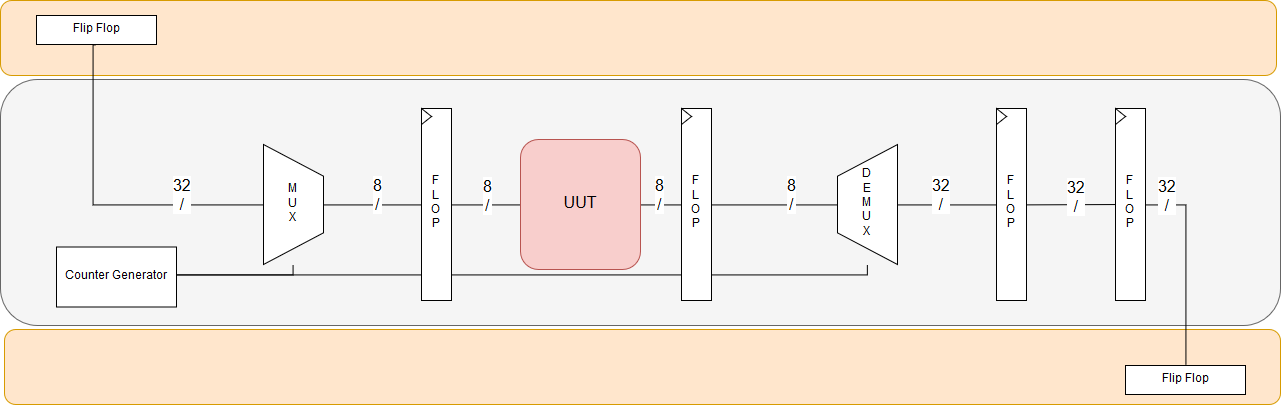
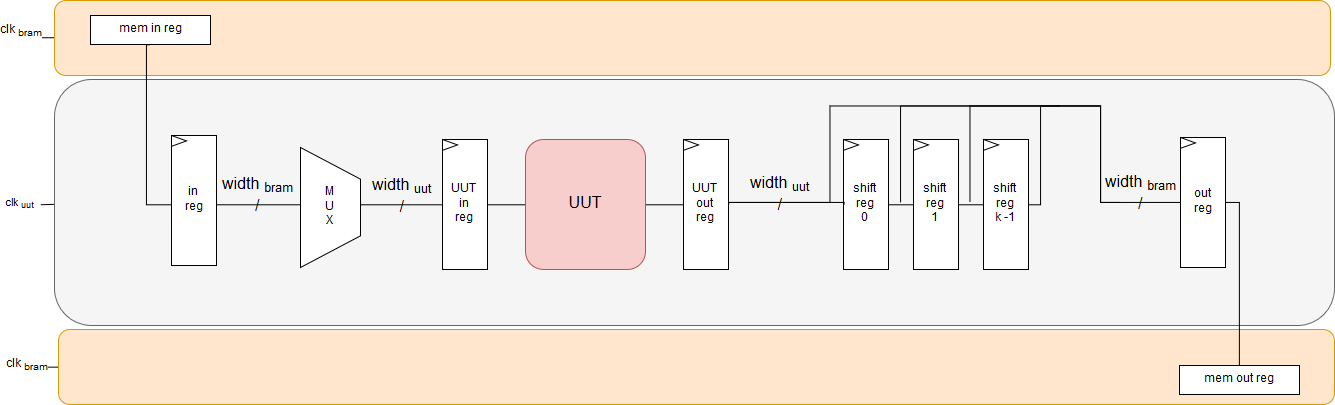
Changes from papeeria

diff --git a/5_test_bench.tex b/5_test_bench.tex
@@ -1,10 +1,7 @@
 \chapter{Test Bench}
-One of the development steps is the verification of the design. It is very important to determine whether the requirements of the systems specification are met. There are generally two approaches to validate systems functionality. The formal verification is a mathematical prove of the compatibility between the specification and systems function. The verification through simulation focuses on testing the design and  ...
+The main idea behind the test bench development was to make it configurable and adaptable. The test bench has been developed parallel to the system and therefore has been redesigned to suit the current needs. It became clear that it has to be able to conduct various tests on any design with adjustable frequencies and not be bound to any design or interface in particular. The general idea of testing a design has been shown in \autoref{fig:test}.
 
-\section{General Overview}
-The main idea behind the test bench development was to make it configurable and adaptable. The test bench has been developed parallel to the system and therefore has been redesigned to suit the current needs. It became clear that it has to be a test bench able to conduct various test on designs with various input ranges with various frequencies and not be bound to one design or interface. The general idea of testing a design has been shown in \autoref{fig:test}.
-
-The tester is responsible for test vector generation, feeding the vectors to the inputs of the Device Under Test (DUT), gathering the response and evaluating it. Both generation and evaluation tasks are very design dependent and have to be adjusted after the design is placed in the test bench. The easiest interface from the users perspective is a PC application acting as the GUI. Since the UUT is being developed on the RTL level with hardware description language and the test bench is supposed to test it for real working frequencies, at least as close as possible to real environment, implementation on an FPGA would allow such test. The feeding and gathering has to also be implemented in FPGA as physical test interface. The middleware, responsible for the communication and translation of signals, should support standard communication protocols for data exchange with PC and hardware interface to the FPGA. The rough design draft is shown in the figure \autoref{fig:draft}.\\
+The test bench is responsible for applying the test vectors to the inputs of the UUT and recording the responses. The generation of test patterns, systematic or random, and response evaluation must be repeated for every design tested, therefore this is the responsibility of the test designer. The easiest interface from the users perspective is a PC application acting as the GUI to the test bench. Physical access to the UUT is implemented with hardware description language and, together with the design, implemented into a FPGA. The middleware, responsible for the communication and translation of signals between GUI and physical interface, should support standard communication protocols for data exchange with PC and hardware interface to the FPGA. The rough design draft is shown in the figure \autoref{fig:draft}.\\
  
 
 \begin{figure}[H]
@@ -27,7 +24,7 @@ The Xilinx Zynq XC7Z020-1-CLG484 produced in 28nm technology is a SoC solution c
 \end{figure}
 
 \section{Physical Interface}
-The physical interface of the test bench has to supply UUT inputs with test vectors and record response of the outputs. This is the principle of the boundary test, where the tester has no access to the internal structure of the tested design. To achieve higher frequencies then the memory interface can withstand, the Test Engine fetches more data at once and shifts them in chunks through the design. The system architecture is shown in \autoref{fig:testbench}.
+The physical interface of the test bench has to supply UUT inputs with test vectors and record responses of the outputs. It is advisable to incorporate the DfT techniques to increase controllability and observability of the UUT. The system architecture is shown in \autoref{fig:testbench}.
 
 \begin{figure}[H]
 \centering
@@ -36,20 +33,10 @@ The physical interface of the test bench has to supply UUT inputs with test vect
 \label{fig:testbench}
 \end{figure}
 
-\subsection{AXI Interface}
-The history of the Advanced eXtensible Interface (AXI) goes back to year 2003 when it was first introduced as part of the ARM\textsuperscript{\textregistered} Advanced Microcontroller Bus Architecture (AMBA\textsuperscript{\textregistered}). The current version is called AXI4 and was released in 2010 as second version of AXI interface. The number four comes from the fourth version of AMBA, which contains AXI interface. The protocol is supported by many Intellectual Property (IP) producers (not only Xilinx) making the designer learn only one standard of communication. It was developed to standardize the communication between modules in the SoC designs. There are three types or modes of the AXI4:
-\begin{itemize}
-    \item AXI4 maps the memory of the interface and allows bursts up to 256 data transfers with just single address phase. Writing data to the memory, sends the data directly to the IP,
-    \item AXI4-Lite is a light-weight version which offers just memory mapping without the burst capability,
-    \item AXI4-Stream doesn't support any address phases. It allows unlimited burst of data. Lack of addresses make it no more considered a memory mapping interface.
-\end{itemize}
-The protocol works in the master slave system connecting both of them using an AXI Interconnect IP. It applies only to memory mapped versions, since the AXI4-Stream connects master and slave directly or with each other or DMA IP. The AXI Interconnect can service up to 16 masters and 16 slaves. Its main function is the data-width translation, downsizing too big master data packets into smaller slave-compliant bursts or upsizing it. It also does the clock-rate conversion, since both masters and slaves can operate on different clock frequencies. One of the big advantages of the interconnection is the mix support between protocol modes. Moreover the interconnection implements data pipelining for better frequency vs. latency trade-off. Finally it handles priorities in data transitions, making them either concurrent or using programmable priorities.
-AXI4 protocol is designed for bidirectional communication, having separate write address, read address, write data, read data and write response channels in memory mapped modes and just data transfer channel in Stream mode. Every Xilinx IP has AXI4 support and there is an easy way of creating custom IPs supporting this protocol~\cite{report:AXI}.
-
 \subsection{Test Engine}\label{ssec:engine}
 The main core of the Test Bench is the Test Engine which feeds the test vectors to the UUT and gathers the response vectors. It consists of two parts:
 \begin{itemize}
-    \item memory interface which calculates successive addresses for words in the memory bank and stores them in the input register for one $clk_{bram}$ cycle. The addresses get incremented by $inc = width_{bram}/8$ due to the bytewise addressing scheme. The memory interface also handles the write back of the response once per $clk_{bram}$ cycle from the output register. The number of pipeline stages for data read operation has to be taken into account. The number of pipeline stages determines the delay in clock cycles when the information, stored under the address given in the address register, actually gets to the input register of the test engine.
+    \item memory interface which calculates successive addresses for words in the memory bank and stores them in the input register every $clk_{bram}$ cycle. The addresses get incremented by $inc = width_{bram}/8$ due to the bytewise addressing scheme. The memory interface also handles the write back of the response every $clk_{bram}$ cycle from the output register. The number of pipeline stages for memory data read operation has to be taken into account. The number of pipeline stages determines the delay in clock cycles when the information, stored under the address given in the address register, actually gets to the input register of the test engine. The pipeline is used by Xilinx to increase the clock rate of their BRAM modules.
     \item data downsize converter which reads input register and conducts parallel to parallel conversion where the input dimension is the $b=width_{bram}$ and the output dimension is the $u=width_{uut}$. The conversion process takes $k clk_{uut}$ cycles where $k$ is calculated as showed in~\autoref*{eq:ratio}.
     \begin{equation}
     k = \frac{clk_{uut}}{clk_{bram}} = \frac{width_{bram}}{width_{uut}}\label{eq:ratio}
@@ -123,5 +110,15 @@ The depth and width of the BRAMs may be adjusted to suit the testers needs and o
 On of the crucial tasks of the test bench is the ability to test design with different frequencies. The frequency has to be dynamically adjustable and stable at all times.
 
 \section{Middleware}
-The middleware lays between the user and hardware. All of it's functionality is implemented within one core of the ARM processor available in Zynq. The middleware has direct access only to the modules with AXI interface. The modules are marked yellow in the \autoref{fig:testbench}. 
+The middleware lays between the user and hardware. All of it's functionality is implemented within one core of the ARM processor available in Zynq. The middleware has direct access only to the modules with AXI interface. The modules are marked yellow in the \autoref{fig:testbench}.
+
+\subsection{AXI Interface}
+The history of the Advanced eXtensible Interface (AXI) goes back to year 2003 when it was first introduced as part of the ARM\textsuperscript{\textregistered} Advanced Microcontroller Bus Architecture (AMBA\textsuperscript{\textregistered}). The current version is called AXI4 and was released in 2010 as second version of AXI interface. The number four comes from the fourth version of AMBA, which contains AXI interface. The protocol is supported by many Intellectual Property (IP) producers (not only Xilinx) making the designer learn only one standard of communication. It was developed to standardize the communication between modules in the SoC designs. There are three types or modes of the AXI4:
+\begin{itemize}
+    \item AXI4 maps the memory of the interface and allows bursts up to 256 data transfers with just single address phase. Writing data to the memory, sends the data directly to the IP,
+    \item AXI4-Lite is a light-weight version which offers just memory mapping without the burst capability,
+    \item AXI4-Stream doesn't support any address phases. It allows unlimited burst of data. Lack of addresses make it no more considered a memory mapping interface.
+\end{itemize}
+The protocol works in the master slave system connecting both of them using an AXI Interconnect IP. It applies only to memory mapped versions, since the AXI4-Stream connects master and slave directly or with each other or DMA IP. The AXI Interconnect can service up to 16 masters and 16 slaves. Its main function is the data-width translation, downsizing too big master data packets into smaller slave-compliant bursts or upsizing it. It also does the clock-rate conversion, since both masters and slaves can operate on different clock frequencies. One of the big advantages of the interconnection is the mix support between protocol modes. Moreover the interconnection implements data pipelining for better frequency vs. latency trade-off. Finally it handles priorities in data transitions, making them either concurrent or using programmable priorities.
+AXI4 protocol is designed for bidirectional communication, having separate write address, read address, write data, read data and write response channels in memory mapped modes and just data transfer channel in Stream mode. Every Xilinx IP has AXI4 support and there is an easy way of creating custom IPs supporting this protocol~\cite{report:AXI}.
 \section{GUI}

diff --git a/2_dependability.tex b/2_dependability.tex
@@ -80,7 +80,7 @@ Let's focus on faults that occur in hardware and are caused by natural phenomena
     \item Physical Interference - are all external faults, both permanent, transient and intermittent caused by radioactive radiation and electromagnetic interference. These faults are randomly distributed throughout the whole life of a the system.
     \item Physical Deterioration - are the faults resulting from aging. They can be permanent, transient and intermittent. Electromigration (EM) and Stress Migration (SM) are just two of many possible aging effects by which an integrated circuit may be affected. The probability of such faults rises together with the systems age~\cite{art:Avizienis, art:Avizienis2}.
 \end{itemize}
-The~\autoref{fig:badewanne} shows the Fault rate/time relation. The first part of the diagram shows Early-Life_Failures, which result from the Production Defects. They should be captured during early life tests of the design. Next stage shows all faults happening due to Physical Interference. They are constantly threatening the system keeping the fault rate at the stable level. It may happen that systems environment is less or more "fault likely" but it would just shift the fault rate higher and not change the monotonicity of this part of the graph. The last part show rising number of faults due to agied and deterioration processes happening to every hardware (and, according to some definitions also to software).
+The~\autoref{fig:badewanne} shows the Fault rate/time relation. The first part of the diagram shows Early-Life-Failures, which result from the Production Defects. They should be captured during early life tests of the design. Next stage shows all faults happening due to Physical Interference. They are constantly threatening the system keeping the fault rate at the stable level. It may happen that systems environment is less or more "fault likely" but it would just shift the fault rate higher and not change the monotonicity of this part of the graph. The last part show rising number of faults due to agied and deterioration processes happening to every hardware (and, according to some definitions also to software).
 
 \begin{figure}[H]
 \centering

diff --git a/3_test.tex b/3_test.tex
@@ -55,7 +55,7 @@ Another example of partitioning is based on the knowledge how the sequential log
 \centering
 \includegraphics[width=0.65\textwidth]{figures/Meely.PNG}
 \caption{Representation of a sequential system as the Meely state machine}
-\label{fig:test}
+\label{fig:Meely}
 \end{figure}
 
 \subsection{Scan Test}
